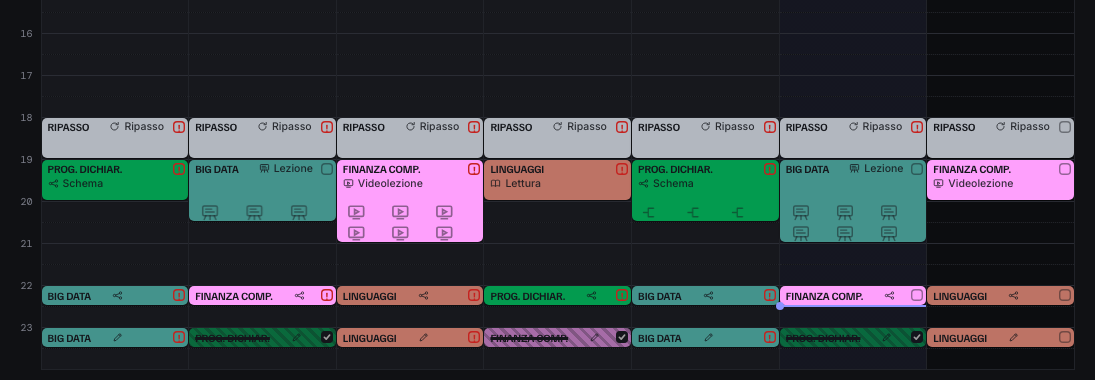
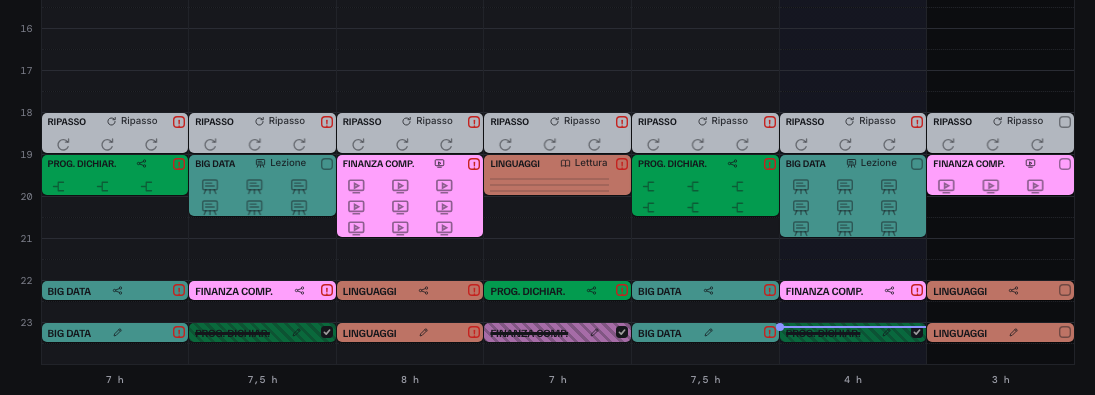
Titolo su una riga in tutti i blocchi, e le figure tornano nei blocchi da un'ora
Il titolo andato a capo su due righe toglieva le figure ai blocchi da
un'ora. Ora NOME + icona + attivita' stanno su una riga: se non ci
stanno, le scritte di tutta la griglia si rimpiccioliscono un poco, alla
stessa misura per tutti (fino a 85%); se ancora non basta, in quel blocco
va via la parola e resta l'icona. Il nome della materia resta sempre.

La mezz'ora: nome, icona e attivita' come gli altri. A riga minima
l'attivita' era nascosta da una regola vecchia: ora decide lo spazio.

diff --git a/index.html b/index.html
@@ -584,8 +584,13 @@ tbody tr:last-child td.c{border-bottom:1px solid var(--line-soft)}
    allineato al centro: in linea di base l'icona tirava giu' il nome di due
    pixel e le scritte sembravano storte (3 ottobre). Classe doppia: vince
    sulle regole piu' sotto. */
-.blk em .l1.l1{flex-wrap:wrap;align-items:center;row-gap:1px}
-.blk em .l1.l1 b{flex:0 1 auto;min-width:0;max-width:100%;overflow:hidden;text-overflow:ellipsis;white-space:nowrap}
+.blk em .l1.l1{flex-wrap:nowrap;align-items:center}
+.blk em .l1.l1 b{flex:0 1 auto;min-width:0;max-width:100%;overflow:hidden;text-overflow:ellipsis;white-space:nowrap;
+  font-size:calc(var(--tb,12px) * var(--tk,1))}
+.blk em .l1.l1 s,.blk.mini em s{font-size:calc(var(--ts,11.5px) * var(--tk,1))}
+.blk.mini em > b{font-size:calc(var(--tb,12px) * var(--tk,1))}
+html[data-row="tight"] .blk{--tb:11px;--ts:10.5px}
+html[data-row="micro"] .blk{--tb:10px;--ts:9.5px}
 .blk em .l1.l1 s{flex:0 0 auto;min-width:0;max-width:100%;overflow:hidden}
 .blk em .l1.l1 s i{white-space:nowrap;overflow:hidden;text-overflow:ellipsis;min-width:0}
 /* Nome e attività sulla stessa riga se ci stanno; se no l'attività va a capo
@@ -626,7 +631,7 @@ html[data-row="micro"] .blk em u.nota{font-size:10px;line-height:1.15;margin-top
    centoquarantotto pixel gli restavano dieci, cioè niente. Meglio un nome
    troncato e un'attività riconoscibile che il contrario. */
 .blk.mini em b{padding-right:0;flex:0 1 auto;max-width:56%}
-.blk.mini em s{margin-top:0;flex:0 1 auto;min-width:0;overflow:hidden}
+.blk.mini em s{margin-top:0;flex:0 0 auto;min-width:0;overflow:hidden}
 .blk.mini em s i{white-space:nowrap;min-width:0}
 .blk.mini em.mini-ok b, .blk.mini em b{flex:0 1 auto;max-width:none;min-width:0}
 
@@ -643,7 +648,8 @@ html[data-row="micro"] .blk em{padding:1px 5px 0}
 html[data-row="micro"] .blk.mini em{padding:1px 14px 0 5px}
 html[data-row="micro"] .blk em b{font-size:10px;padding-right:13px;line-height:1.15}
 html[data-row="micro"] .blk em s{font-size:9.5px}
-html[data-row="micro"] .blk.mini em s{display:none}
+/* anche a riga minima la mezz'ora ha icona e attivita', se ci stanno: lo
+   decide motivi(), che toglie prima la parola e poi l'icona */
 /* l'icona di ripiego no: è quello che resta dell'attività quando il motivo non
    ci sta, e sparire è proprio quello che non deve fare */
 html[data-row="micro"] .blk.mini em s.soloico{display:flex}
@@ -1864,7 +1870,7 @@ const SWATCHES=["#6E8BFF","#8FA4E8","#5FA8D3","#4A8FBE","#63C2C2","#4EA5A5",
    scritta nel pannello Backup: quando "mi fa ancora lo stesso" la prima
    domanda e' se il browser sta mostrando il file nuovo o uno vecchio in
    memoria — e senza questo nessuno dei due puo' rispondere. */
-const VERSIONE="3 ott 2026 · g";
+const VERSIONE="3 ott 2026 · h";
 const KEY="piano-6272-v5";
 let state={v:8,theme:"dark",piano:"LM18",year:1,ctx:"1",from:0,to:6,span:7,dayStart:0,act:"LEZ",brush:null,erase:false,
            exams:[],over:{},q:"",collapsed:{},dayClip:null,semOpen:false,blockClip:null,
@@ -5305,17 +5311,31 @@ function motivi(root){
   /* Il nome della materia viene prima: se accanto a lui l'attivita' non ci
      sta intera, l'attivita' non si scrive (lo dicono le figure), invece di
      troncarli tutti e due a "FINANZA COM… S…". */
-  /* Il titolo e' NOME + icona + attivita', com'era nel lavoro (3 ottobre).
-     Se non ci sta tutto, prima se ne va la parola, poi l'icona: il nome
-     della materia viene sempre per primo. */
-  (root||document).querySelectorAll(".blk.mini em").forEach(l1=>{
-    const b=l1.querySelector(":scope > b"),ss=l1.querySelector(":scope > s");
-    if(!b||!ss||ss.classList.contains("soloico"))return;
-    /* basta un pixel: coi puntini "Schema" diventa "Sche…" */
-    const stretto=()=>b.scrollWidth>b.clientWidth||[...ss.querySelectorAll("i")].some(i=>i.scrollWidth>i.clientWidth);
-    if(!stretto())return;
-    const i=ss.querySelector("i");if(i)i.remove();
-    if(b.scrollWidth>b.clientWidth)ss.remove();
+  /* Il titolo e' NOME + icona + attivita', su una riga sola, in tutti i
+     blocchi (3 ottobre): su due righe, in un blocco da un'ora alle figure non
+     restava niente. Se non ci sta, le scritte si rimpiccioliscono un poco,
+     fino a tre quarti; se ancora non basta va via la parola, poi l'icona. Il
+     nome della materia resta sempre. */
+  /* Una misura sola per tutti i titoli della griglia, la piu' grande con cui
+     ci stanno quasi tutti: titoli di misure diverse uno accanto all'altro
+     sembravano un errore. */
+  const titoli=[...(root||document).querySelectorAll(".blk em .l1, .blk.mini em")].map(t=>{
+    const b=t.querySelector(":scope > b");if(!b)return null;
+    const ss=t.querySelector(":scope > s");
+    const stretto=()=>b.scrollWidth>b.clientWidth||
+      (ss&&ss.isConnected&&([...ss.querySelectorAll("i")].some(i=>i.scrollWidth>i.clientWidth)||ss.scrollWidth>ss.clientWidth));
+    return {t,b,ss,stretto};
+  }).filter(Boolean);
+  const scala=[1,.92,.85];
+  let K=1;
+  titoli.forEach(x=>{
+    for(const k of scala){x.t.style.setProperty("--tk",k);if(!x.stretto()){K=Math.min(K,k);break;}}
+  });
+  titoli.forEach(x=>{
+    x.t.style.setProperty("--tk",K);
+    if(!x.stretto()||!x.ss||x.ss.classList.contains("soloico"))return;
+    const i=x.ss.querySelector("i");if(i)i.remove();
+    if(x.stretto())x.ss.remove();
   });
   bl.forEach(o=>{if(o.f){o.f.classList.add("tutto");o.f.style.flex="";o.f.style.marginTop="";o.f.style.top="";o.f.style.backgroundImage="";}});
   /* Da che mezz'ora partono le figure: la stessa per tutti i blocchi della
